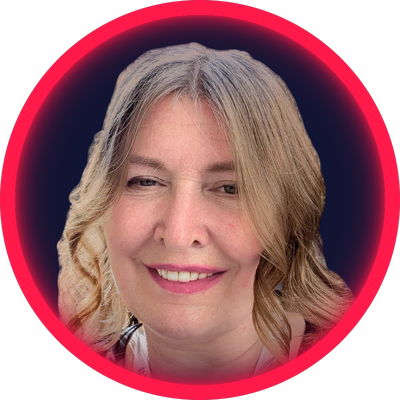
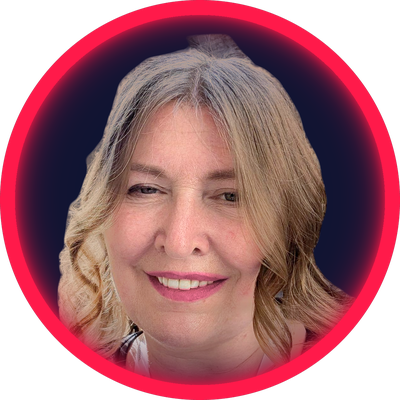
design(autoři): portréty ve vysokém rozlišení (800 px WebP, nové názvy)
Kateřina z ostřejší zdrojové fotky, stejná retuš; obě podobenky složené
v 1200 px a exportované jako katerina-mahdalova.webp / michal-skop.webp
(nové názvy = obejití cache prohlížečů i vyhledávačů). Staré km/ms_circle.png
aktualizované pro případné externí odkazy.

Changed region(s): [[0.12, 0.06, 0.9, 0.93], [0.12, 0.69, 0.15, 0.75]]

diff --git a/apps/web/lib/authorsProfile.ts b/apps/web/lib/authorsProfile.ts
@@ -23,7 +23,7 @@ export interface AuthorProfile {
 const PROFILES: AuthorProfile[] = [
   {
     name: 'Kateřina Mahdalová',
-    photo: '/authors/km_circle.png',
+    photo: '/authors/katerina-mahdalova.webp',
     email: 'datovazurnalistika@gmail.com',
     // bio: '…', // TODO doplnit krátký medailonek (1–2 věty)
     social: {
@@ -37,7 +37,7 @@ const PROFILES: AuthorProfile[] = [
   },
   {
     name: 'Michal Škop',
-    photo: '/authors/ms_circle.png',
+    photo: '/authors/michal-skop.webp',
     email: 'michal@datajurnalism.studio',
     // bio: '…', // TODO doplnit krátký medailonek (1–2 věty)
     social: {

diff --git a/apps/web/app/o-nas/AboutScrolly.tsx b/apps/web/app/o-nas/AboutScrolly.tsx
@@ -54,7 +54,7 @@ const steps: Step[] = [
     eyebrow: 'Šéfredaktorka & majitelka',
     title: 'Kateřina Mahdalová',
     portrait: {
-      src: '/authors/km_circle.png',
+      src: '/authors/katerina-mahdalova.webp',
       alt: 'Portrét Kateřiny Mahdalové',
     },
     paragraphs: [
@@ -70,7 +70,7 @@ const steps: Step[] = [
     eyebrow: 'Šéfredaktor & majitel',
     title: 'Michal Škop',
     portrait: {
-      src: '/authors/ms_circle.png',
+      src: '/authors/michal-skop.webp',
       alt: 'Portrét Michala Škopa',
     },
     paragraphs: [

diff --git a/packages/ui/src/components/AuthorByline.tsx b/packages/ui/src/components/AuthorByline.tsx
@@ -5,8 +5,8 @@ import classes from './AuthorByline.module.css';
 // jméno zkrátí na příjmení („Mahdalová & Škop“), aby se vešlo na jeden řádek
 // i v úzké kartě (celé jméno je v tooltipu). Fotky jsou v /public/authors.
 const AUTHOR_PHOTOS: Record<string, string> = {
-  'Kateřina Mahdalová': '/authors/km_circle.png',
-  'Michal Škop': '/authors/ms_circle.png',
+  'Kateřina Mahdalová': '/authors/katerina-mahdalova.webp',
+  'Michal Škop': '/authors/michal-skop.webp',
 };
 
 function splitNames(author?: string): string[] {

diff --git a/apps/web/components/dpbp/ArticleByline.tsx b/apps/web/components/dpbp/ArticleByline.tsx
@@ -18,8 +18,8 @@ import styles from './ArticleHeader.module.css';
 // a volitelně audio stopa. Používá ji hlavička článku i otvírák kapitoly.
 
 const AUTHOR_PHOTOS: Record<string, string> = {
-  'Kateřina Mahdalová': '/authors/km_circle.png',
-  'Michal Škop': '/authors/ms_circle.png',
+  'Kateřina Mahdalová': '/authors/katerina-mahdalova.webp',
+  'Michal Škop': '/authors/michal-skop.webp',
 };
 
 function initials(name: string): string {
